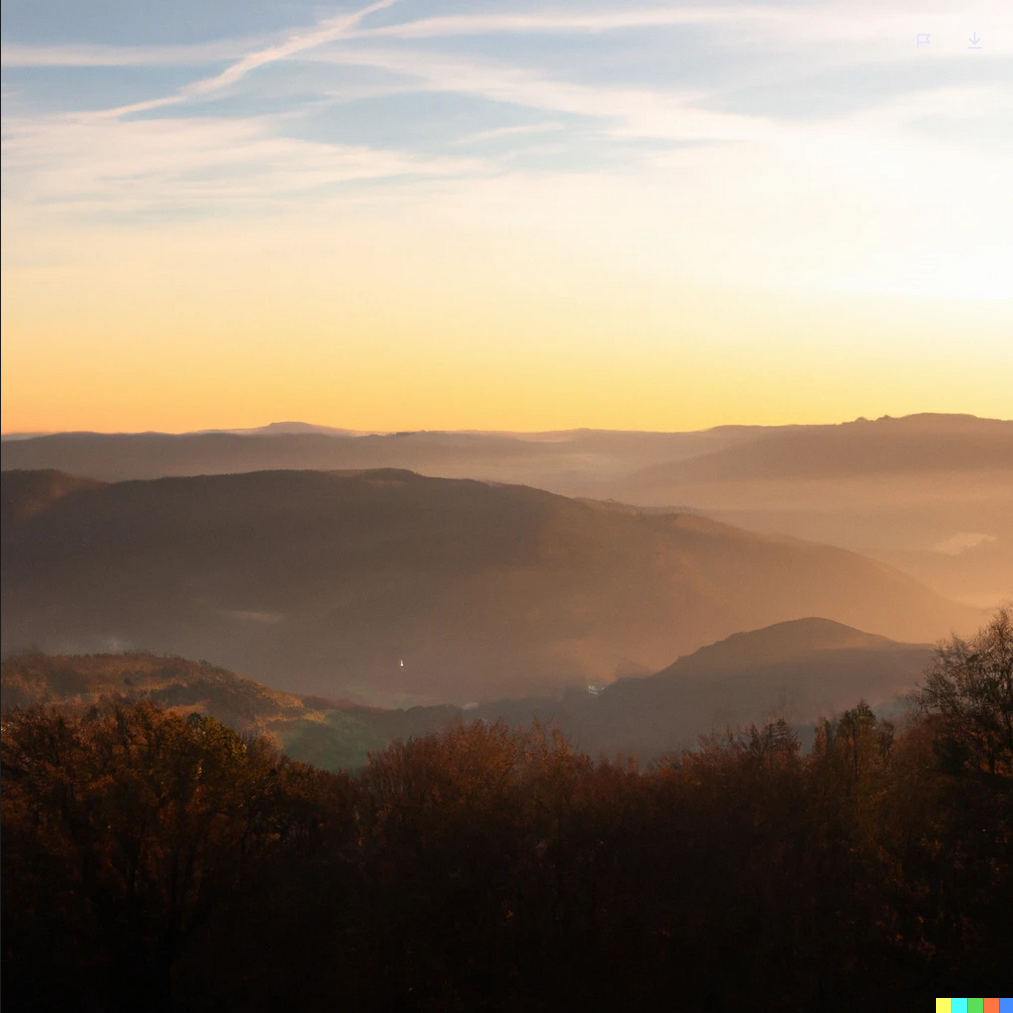
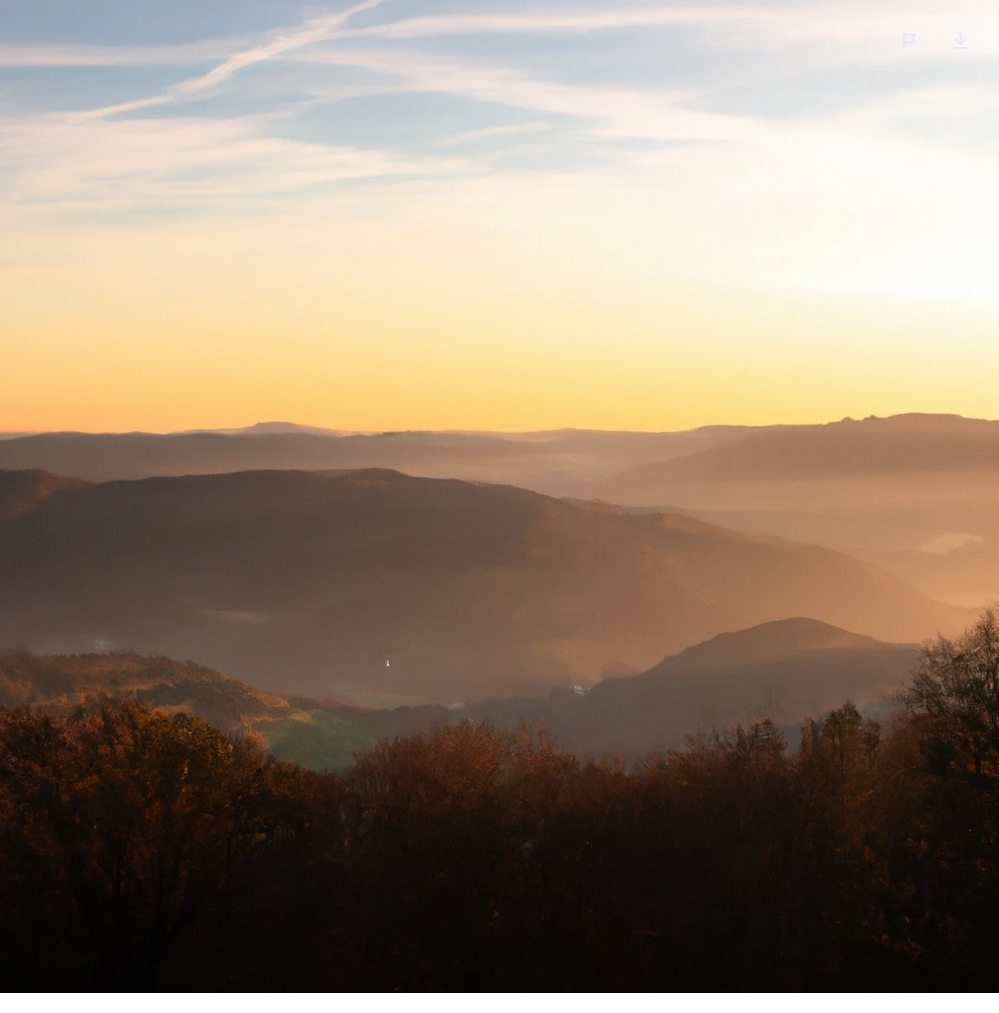
uuuu

diff --git a/slides/scripts/introduction.py b/slides/scripts/introduction.py
@@ -6,4 +6,12 @@ class S0(Scene):
         title = Title("Neuronale Netwerke")
         self.add(title)
 
+        self.wait(1)
 
+        img1 = ImageMobject("assets/DALLE.png").scale(0.7).shift(LEFT * 3.85).shift(DOWN * 0.5)
+        img2 = ImageMobject("assets/BERG.png").scale(0.7).next_to(img1, RIGHT * 2.5)
+
+        self.add(img1)
+        self.add(img2)
+
+        self.wait(1)
